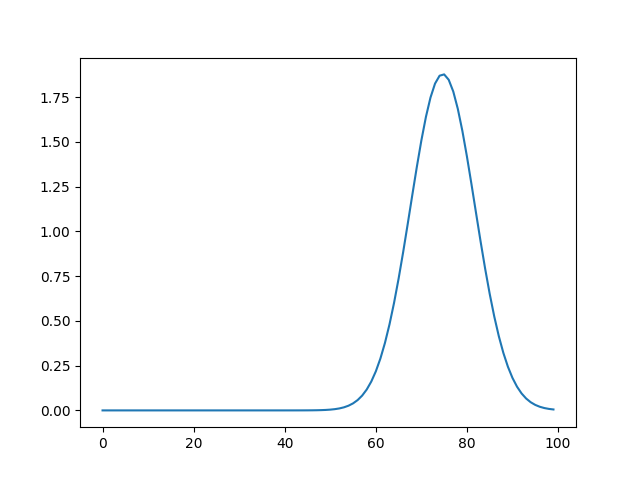
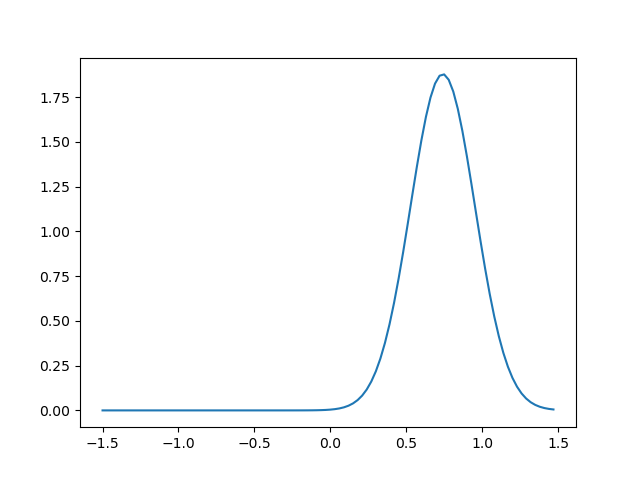
separated io

diff --git a/simulation.c b/simulation.c
@@ -7,6 +7,8 @@
 #include <string.h>
 #include <time.h>
 
+#include "io.h"
+
 double simulate_next_V(double last_v, double delta_t, double gamma, double D, gsl_rng *r) {
     double eta = gsl_ran_gaussian(r, 1);
     double next_v = last_v * (1 - gamma * delta_t) + sqrt(2 * D * delta_t) * eta;
@@ -26,7 +28,7 @@ double **simulate_V_values(double D, double gamma, int N, int N_t, double delta_
         v_data[i] = malloc(N_t * sizeof(double));
     }
 
-    // calculate and save V values
+    // simulate and save V values
     for (i = 0; i < N; ++i) {
         v_current = 1;
         v_data[i][0] = v_current;
@@ -59,57 +61,23 @@ double calculate_transition_probability(double V, double t, double D, double gam
 	return P;
 }
 
-double *calculate_P_values(double D, double gamma, double t, double v_0, double *V_axis) {
+double *calculate_P_values(double D, double gamma, double t, double v_0, double *V_Axis) {
     double V_step = 3. / 100.;
     printf("V_step = %f\n", V_step);
 
     for (int i = 0; i < 100; i++) {
-        V_axis[i] = -1.5 + i * V_step;
-        printf("V_axis[%i] = %f\n", i, V_axis[i]);
+        V_Axis[i] = -1.5 + i * V_step;
     }
-        
 
     double *P_vals = malloc(100 * sizeof(double));
 
     for (int i = 0; i < 100; i++) {
-        P_vals[i] = calculate_transition_probability(V_axis[i], t, D, gamma, v_0);
-        printf("P_vals[%d] = %f\n", i, P_vals[i]);
+        P_vals[i] = calculate_transition_probability(V_Axis[i], t, D, gamma, v_0);
     }
 
-    free(V_axis);
-	
     return P_vals;
 }
 
-
-void write_double_matrix_to_file(double **matrix, int n_rows, int n_cols, char fname[]) {
-    int i, j;
-
-    FILE *fptr = fopen(fname, "w");
-
-    for (i = 0; i < n_rows; ++i) {
-        fprintf(fptr, "row %d\n", i);
-        for (j = 0; j < n_cols; ++j) {
-            fprintf(fptr, "%lf\n", matrix[i][j]);
-        }
-    }
-}
-
-void write_int_array_to_file(const int *array, const int array_len, const char fname[]) {
-    FILE *fptr = fopen(fname, "w");
-
-    for (int i = 0; i < array_len; ++i) {
-        fprintf(fptr, "%d\n", array[i]);
-    }
-}
-
-void write_double_array_to_file(const double *array, const int array_len, const char fname[]) {
-    FILE *fptr = fopen(fname, "w");
-
-    for (int i = 0; i < array_len; ++i) {
-        fprintf(fptr, "%f\n", array[i]);
-    }
-}
 
 void free_matrix_memory(double **matrix, int n_rows) {
     int i;
@@ -190,7 +158,6 @@ int *histogram(double array[], int array_len, int n_bins, double *bin_bounds) {
     }
 
     return counts;
-
 }
 
 void write_hist_and_bounds(int time, double **v_data, int N, int n_bins, char *hist_fname, char *bd_fname) {
@@ -206,13 +173,14 @@ void write_hist_and_bounds(int time, double **v_data, int N, int n_bins, char *h
 
     write_int_array_to_file(counts, n_bins, hist_fname);
 
-    write_double_array_to_file(bin_bounds, n_bins+1, bd_fname);
+    write_double_array_to_file(bin_bounds, n_bins+1, bd_fname, "bin_bounds", "w");
 
     free(time_0);
     free(counts);
     free(bin_bounds);
 
 }
+
 
 int main(void) {
 
@@ -244,18 +212,21 @@ int main(void) {
     write_hist_and_bounds(400, v_data, N, n_bins, "../data/counts_t400.txt", "../data/bounds_t400.txt");
 
     double v_0 = 1;
-    double t = 0.3;
+    double times[4] = {0.3, 0.5, 1, 4};
+    char *array_P_names[4] = {"P_vals03", "P_vals05", "P_vals1", "P_vals43"};
+    char *array_V_names[4] = {"V_vals03", "V_vals05", "V_vals1", "V_vals43"};
+
     double *V_axis = malloc(100 * sizeof(double));
-    double *P_vals = calculate_P_values(D, gamma, t, v_0, V_axis);
+    for (int i = 0; i < 3; i++) {
+        double *P_vals = calculate_P_values(D, gamma, times[i], v_0, V_axis);
 
-    for (int i = 0; i < 100; i++)
-        printf("P[V[%d]=%f] = %f\n", i, V_axis[i], P_vals[i]);
+        write_double_array_to_file(P_vals, 100, "../data/P_vals.txt", array_P_names[i], "w");
+        write_double_array_to_file(V_axis, 100, "../data/P_vals.txt", array_V_names[i], "a");
 
-    write_double_array_to_file(P_vals, 100, "../data/P_vals.txt");
+        free(P_vals);
+    }
 
-    double test = calculate_transition_probability(-1.5, t, D, gamma, v_0);
-    printf("This is my test: %f\n", test);
-
+    free(V_axis);
     free_matrix_memory(v_data, N);
     gsl_rng_free(r);
 }

diff --git a/plot.py b/plot.py
@@ -1,6 +1,13 @@
 import matplotlib.pyplot as plt
 import matplotlib.gridspec as gridspec
 
+P_vals = []
+V_Axis = []
+# fill P_vals and V_Axis
+with open("data/P_vals.txt") as file:
+    for line in file:
+        exec(line)
+
 datasets = []
 with open("data/v_values.txt") as file:
     for line in file:
@@ -40,7 +47,8 @@ for i, (time_step, label) in enumerate(zip(times, labels)):
     bin_bounds = []
     with open(f"data/bounds_t{time_step}.txt") as file:
         for line in file:
-            bin_bounds.append(float(line))
+            # bin_bounds.append(float(line))
+            exec(line)
 
     counts = []
     with open(f"data/counts_t{time_step}.txt") as file:
@@ -60,6 +68,8 @@ for i, (time_step, label) in enumerate(zip(times, labels)):
     ax_hist.set_ylabel("P(v,t)", fontsize=10)
     ax_hist.set_xlim(-1.5, 1.8)
 
+    plt.plot(V_Axis, P_vals, c="red", label="theory")
+
     # remove x-axis tick labels for the top 3 plots to avoid clutter
     if i < len(times) - 1:
         ax_hist.set_xticklabels([])
@@ -71,13 +81,3 @@ for i, (time_step, label) in enumerate(zip(times, labels)):
         ax_hist.text(-0.1, 1.15, "(b)", transform=ax_hist.transAxes, fontsize=16, fontweight='bold')
 
 plt.savefig("figures/combined_figure.png", dpi=150)
-
-
-P_vals = [];
-with open("data/P_vals.txt") as file:
-    for line in file:
-        P_vals.append(float(line))
-
-fig, ax = plt.subplots()
-ax.plot(P_vals)
-fig.savefig("figures/thory_t30")

diff --git a/io.h b/io.h
@@ -1,0 +1,49 @@
+#include <stdio.h>
+
+void write_double_matrix_to_file(double **matrix, int n_rows, int n_cols, char fname[]) {
+    int i, j;
+
+    FILE *fptr = fopen(fname, "w");
+
+    for (i = 0; i < n_rows; ++i) {
+        fprintf(fptr, "row %d\n", i);
+        for (j = 0; j < n_cols; ++j) {
+            fprintf(fptr, "%lf\n", matrix[i][j]);
+        }
+    }
+
+    fclose(fptr);
+}
+
+void write_int_array_to_file(const int *array, const int array_len, const char fname[]) {
+    FILE *fptr = fopen(fname, "w");
+
+    for (int i = 0; i < array_len; ++i) {
+        fprintf(fptr, "%d\n", array[i]);
+    }
+
+    fclose(fptr);
+}
+
+void write_double_array_to_file(const double *array, const int array_len, const char *fname, char *array_name, char *mode) {
+    FILE *fptr = fopen(fname, mode);
+
+    fprintf(fptr, "%s = [", array_name);
+
+    for (int i = 0; i < array_len-1; ++i) {
+        fprintf(fptr, "%f, ", array[i]);
+    }
+
+    fprintf(fptr, "%f]\n", array[array_len - 1]); // last element without a trailing space
+
+    fclose(fptr);
+}
+
+void print_double_array(double *a, int len_a, char *name) {
+    printf("\n%s = [", name);
+    for (int i = 0; i < len_a - 1; i++) {
+        printf("%f, ", a[i]);
+    }
+    printf("%f]\n", a[len_a - 1]);
+}
+

diff --git a/todos.md b/todos.md
@@ -1,0 +1,2 @@
+* figure out and implement data storing structure
+* 
